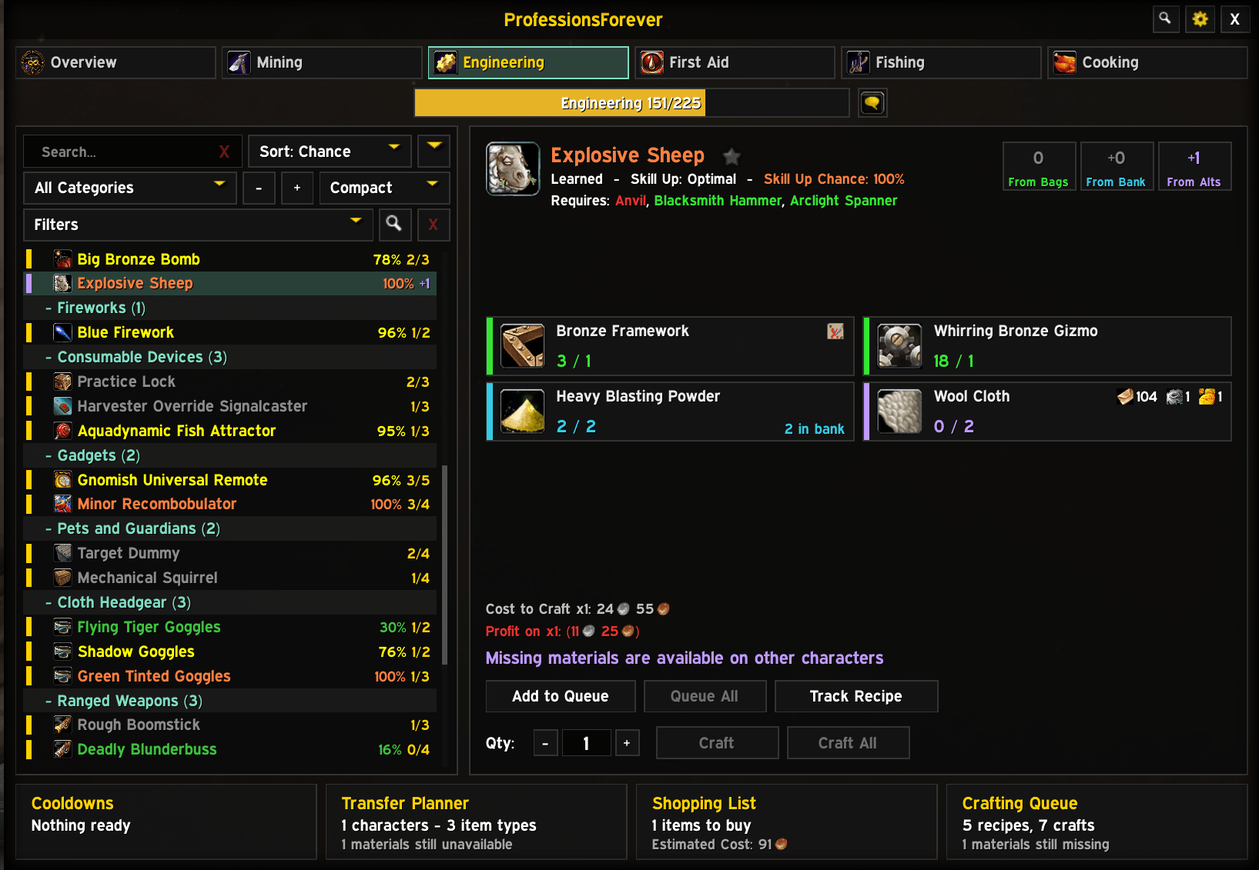
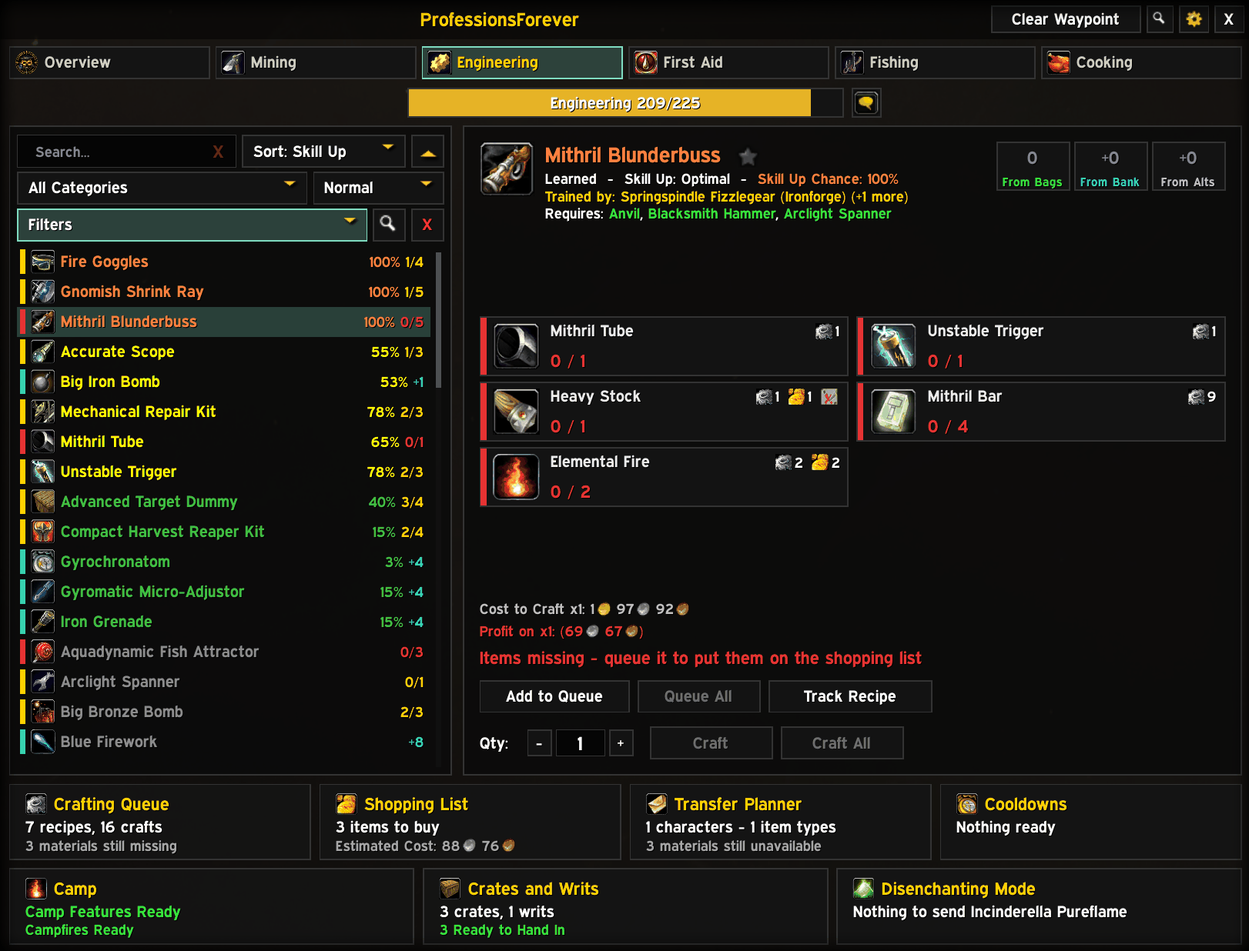
Update website for 0.10.4-0.10.5: changelog, Crates and Writs, Camp, new screenshots

diff --git a/index.html b/index.html
@@ -4,7 +4,7 @@
 	<meta charset="utf-8">
 	<meta name="viewport" content="width=device-width, initial-scale=1">
 	<title>ProfessionsForever: the professions window for WoW: Forever</title>
-	<meta name="description" content="The professions window WoW: Forever deserves. It knows what's in your bags, your bank, your mailbox and on every one of your alts: a crafting queue, a shopping list that fills itself, a Transfer Planner, Disenchanting Mode, cooldowns, camp, One-Click Fishing and waypoints to vendors, trainers and bankers.">
+	<meta name="description" content="The professions window WoW: Forever deserves. It knows what's in your bags, your bank, your mailbox and on every one of your alts: a crafting queue, a shopping list that fills itself, a Transfer Planner, Disenchanting Mode, cooldowns, camp, Crates and Writs, One-Click Fishing and waypoints to vendors, trainers and bankers.">
 	<meta name="theme-color" content="#0e0c0a">
 	<meta property="og:type" content="website">
 	<meta property="og:title" content="ProfessionsForever">
@@ -60,7 +60,7 @@
 			</a>
 		</div>
 		<div class="meta-line">
-			<span>Version 0.10.3</span>
+			<span>Version 0.10.5</span>
 			<span>Free and open source (GPL-3.0)</span>
 			<span>Built for WoW: Forever only</span>
 			<span>No required dependencies</span>
@@ -115,22 +115,25 @@
 <!-- What's new -->
 <section id="new" aria-labelledby="new-title">
 	<div class="wrap">
-		<div class="new-box no-shot">
+		<div class="new-box">
 			<div class="new-text">
 				<p class="eyebrow">Latest release</p>
-				<h2 id="new-title">New in 0.10.3 <span class="badge">CURRENT</span></h2>
-				<p class="new-intro">What's arrived in 0.10.2 and 0.10.3.</p>
+				<h2 id="new-title">New in 0.10.5 <span class="badge">CURRENT</span></h2>
+				<p class="new-intro">What's arrived in 0.10.4 and 0.10.5.</p>
 				<ul class="new-list">
-					<li><strong>Your alts' queues work together:</strong> hover an item to see how many your crafting queues need, how many you still have to buy, and which of your characters' queues are making it. Queue bolts on your tailor and your engineer's shopping list drops them and lists the cloth instead. Ore says what it smelts into, and <strong>Queue Needed</strong> queues exactly what's missing in one click.</li>
-					<li><strong>Queue your enchants:</strong> queue an enchant with a quantity to plan and shop for its materials. Each one you apply with the Enchant button comes off the queue.</li>
-					<li><strong>Set up camp:</strong> a new Camp window (footer, quick button or <code>/pf camp</code>) lists every camp feature you hold, can craft, have on an alt or haven't learned yet. Place them with one click, and the shared cooldowns sit right at the top.</li>
-					<li><strong>One-Click Fishing:</strong> bind one key: it puts on your fishing gear, best pole and lure, casts, and catches when the fish bites. Your normal gear goes back on when you mount or stop fishing, and bites are louder so you don't miss the splash.</li>
-					<li><strong>Send stuff by hand:</strong> the Transfer Planner's letter button opens Manual Transfers: send an alt an item or some gold, or ask one to send you something. Drop a stack from your bags straight on the window. At the mailbox, Mail attaches exactly the right amount, splitting stacks for you. You can ask for gear from Disenchanting Mode too.</li>
-					<li><strong>Keys for your quick buttons:</strong> bind a key to any window, to Disenchanting Mode or to each of your professions. Hover a button and press a key to bind it (<code>/pf bind</code>). New Overview and Settings buttons, plus rows or columns, growing from any corner.</li>
-					<li><strong>And more:</strong> "On Shopping List" on item tooltips, how many a craft makes on the recipe icon, a smarter auction verdict when disenchanting, crafted reagents priced at their crafting cost, options in categories with a live tooltip preview, and a pile of fixes.</li>
-				</ul>
+					<li><strong>Crates and Writs:</strong> a new window (footer, quick button or <code>/pf crates</code>) lists the Waylaid Crates and Craftsman's Writs your characters hold, what each pays, the cheapest way to fill it and the cost per Merchant's Favor or reputation. Queue, Shop, Fill and Waypoint right from the row, and see what a crate or writ bought at the auction house would cost once filled.</li>
+					<li><strong>Trainers and vendors built in:</strong> 465 trainer-taught recipes (up from 32), with the skill and cost the trainer asks, and 725 vendor recipes, Forever's own trainers, vendors and camp recipes included. No Questie needed, and it works in any game language.</li>
+					<li><strong>New and Changed in Forever:</strong> a glowing infinity marks recipes that are new in Forever (gold) or changed in Forever (blue), and the tooltip says what changed: reagents, result, trainer skill or cost.</li>
+					<li><strong>How old is that price?</strong> With Auctionator, "Auction Scan: 2h Ago" shows in the shopping list, Crates and Writs, Disenchanting Mode and the cost and profit tooltips, turning red once it's old. Auctionator's shopping list now stays in sync by itself.</li>
+					<li><strong>Chains use what your alts hold:</strong> queuing a recipe no longer queues smelting bars your bank alt already has. With alts counting toward planning, what they hold is used first.</li>
+					<li><strong>And more:</strong> the recipe tooltip can dock beside the window, your specialization on the Overview, Older and Newer buttons in What's New, smarter mail that stacks before it attaches, Stop Queue as its own button, and fixes for the queue, the Transfer Planner and Darkmoon Faire vendors.</li>
+</ul>
 				<a class="btn" href="changelog.html">Read the full changelog</a>
 			</div>
+			<figure class="shot new-shot">
+				<a href="assets/screenshots/whats-new.png" class="zoom"><img src="assets/screenshots/whats-new.png" alt="The What's New window in game, listing the highlights of version 0.10.5: Crates and Writs, who teaches and sells each recipe, New and Changed in Forever, and how old auction prices are." width="878" height="920" loading="lazy"></a>
+				<figcaption>What's New</figcaption>
+			</figure>
 		</div>
 	</div>
 </section>
@@ -145,7 +148,7 @@
 		<div class="tour">
 			<div class="tour-row" id="overview">
 				<figure class="shot">
-					<a href="assets/screenshots/overview.png" class="zoom"><img src="assets/screenshots/overview.png" alt="The Overview tab: cards for Mining, Engineering, Cooking, Fishing and First Aid with skill bars, and the footer showing cooldowns, transfers, shopping list and crafting queue." width="1623" height="1128" loading="lazy"></a>
+					<a href="assets/screenshots/overview.png" class="zoom"><img src="assets/screenshots/overview.png" alt="The Overview tab: cards for Mining, Engineering with the Gnomish Engineer specialization, Cooking, Fishing and First Aid with skill bars, and a two-row footer with the crafting queue, shopping list, Transfer Planner, cooldowns, Camp, Crates and Writs and Disenchanting Mode." width="1623" height="1238" loading="lazy"></a>
 					<figcaption>The Overview</figcaption>
 				</figure>
 				<div class="tour-text">
@@ -154,7 +157,7 @@
 					<p>At a glance. Your starting point.</p>
 					<ul>
 						<li>A card per profession, Cooking, First Aid and Fishing included, with its rank and skill bar.</li>
-						<li>Click to open it, right-click for a waypoint to the nearest trainer, or drag it onto an action bar.</li>
+						<li>Click to open it, right-click for a waypoint to the nearest trainer, or drag it onto an action bar. Blacksmiths, leatherworkers and engineers see their specialization.</li>
 						<li><strong>Your alts too:</strong> pick another character to browse their professions and queue crafts for them.</li>
 					</ul>
 				</div>
@@ -162,7 +165,7 @@
 
 			<div class="tour-row" id="recipes">
 				<figure class="shot">
-					<a href="assets/screenshots/recipe-missing.png" class="zoom"><img src="assets/screenshots/recipe-missing.png" alt="The Engineering recipe browser with Copper Modulator selected: recipes coloured by difficulty with skill up chances, reagent cards, and the hint to queue it to put missing items on the shopping list." width="1635" height="1131" loading="lazy"></a>
+					<a href="assets/screenshots/recipe-missing.png" class="zoom"><img src="assets/screenshots/recipe-missing.png" alt="The Mining recipe list with Smelt Gold selected: blue infinity marks on recipes changed in Forever and a gold one on the camp recipe Lodestone, the nearest trainer with how many more, and gold ore available on another character." width="1622" height="1236" loading="lazy"></a>
 					<figcaption>The crafting window</figcaption>
 				</figure>
 				<div class="tour-text">
@@ -173,14 +176,15 @@
 						<li>Search by recipe name or reagent; sort by name, skill up difficulty, skill up chance, craftable amount or profit.</li>
 						<li>Filter by learned, has materials, skill-up colour or favorites, with categories you can collapse.</li>
 						<li>Colour-coded by skill up difficulty, with the skill up chance on each recipe and a stripe for whether the materials are in your bags, bank, partly there or missing.</li>
-						<li>Unlearned recipes say where they come from and what skill they need, with every trainer of your faction that teaches it, nearest first. <kbd>Ctrl</kbd>-click to preview gear in the dressing room.</li>
+						<li>Unlearned recipes say where they come from and what skill they need, with every trainer of your faction that teaches it, nearest first, and the skill and cost they ask. <kbd>Ctrl</kbd>-click to preview gear in the dressing room.</li>
+						<li><strong>Made for Forever:</strong> a glowing infinity marks recipes new in Forever (gold) or changed in Forever (blue), and the tooltip says what changed.</li>
 					</ul>
 				</div>
 			</div>
 
 			<div class="tour-row" id="reagents">
 				<figure class="shot">
-					<a href="assets/screenshots/recipe-browser.png" class="zoom"><img src="assets/screenshots/recipe-browser.png" alt="Explosive Sheep in the Engineering recipe browser: reagent cards with have and need counts, what's in the bank and on alts, the From Bags, From Bank and From Alts tiles, required tools, and craft cost and profit." width="1635" height="1131" loading="lazy"></a>
+					<a href="assets/screenshots/recipe-browser.png" class="zoom"><img src="assets/screenshots/recipe-browser.png" alt="Mithril Blunderbuss in the Engineering recipe browser: reagent cards with have and need counts and icons for what is queued or held elsewhere, the trainer who teaches it, required tools, the skill up chance, and craft cost and profit." width="1622" height="1236" loading="lazy"></a>
 					<figcaption>What you have, and where</figcaption>
 				</figure>
 				<div class="tour-text">
@@ -188,18 +192,18 @@
 					<h3>Everything about a recipe's materials</h3>
 					<p>Without opening your bags.</p>
 					<ul>
-						<li><strong>Have / need</strong> for every reagent, plus what's in your bank and mailbox, and what your queue and shopping list already want.</li>
+						<li><strong>Have / need</strong> for every reagent, plus what's in your bank, your mailbox and on your alts, and what your queue and shopping list already want.</li>
 						<li>Craftable counts from your bags, with your bank, and with your alts.</li>
 						<li>Tools and stations you need, and whether you have them (a better Enchanting rod counts).</li>
-						<li><strong>With Auctionator:</strong> Cost to Craft and Profit, with each reagent priced at the cheapest of the vendor, the auction house or crafting it yourself (a Bolt of Silk Cloth against four Silk Cloth).</li>
+						<li><strong>With Auctionator:</strong> Cost to Craft and Profit, with each reagent priced at the cheapest of the vendor, the auction house or crafting it yourself (a Bolt of Silk Cloth against four Silk Cloth), and how long ago the auction house was scanned.</li>
 					</ul>
 				</div>
 			</div>
 
 			<div class="tour-row" id="queue">
 				<figure class="shot">
-					<a href="assets/screenshots/queue-shopping.png" class="zoom"><img src="assets/screenshots/queue-shopping.png" alt="The Crafting Queue with Smelt Copper, Handful of Copper Bolts and Copper Modulator, next to the Shopping List with Copper Ore and Linen Cloth, their need, own, alts and buy columns, and the estimated cost." width="1641" height="814" loading="lazy"></a>
-					<figcaption>Queue it, and the shopping list fills itself</figcaption>
+					<a href="assets/screenshots/queue-planner.png" class="zoom"><img src="assets/screenshots/queue-planner.png" alt="The Crafting Queue building a Mithril Blunderbuss from Smelt Bronze, Smelt Mithril, Mithril Tube and Unstable Trigger, next to the Transfer Planner listing what to withdraw from the bank, what to retrieve from a bank alt by mail, and what is still unavailable." width="1634" height="809" loading="lazy"></a>
+					<figcaption>Queue it, and the Transfer Planner knows what to fetch</figcaption>
 				</figure>
 				<div class="tour-text">
 					<p class="eyebrow">Crafting queue</p>
@@ -207,7 +211,7 @@
 					<p>Across professions, and craft it in one go.</p>
 					<ul>
 						<li>Queue any recipe with its own amount, then click <strong>Craft Queue</strong>. Between recipes, a click on the game world crafts the next one.</li>
-						<li><strong>Sub-crafts first:</strong> reagents you can make yourself are queued ahead of the recipe, sized to what you're short of. Short on materials? It holds back the early steps so the final crafts aren't starved.</li>
+						<li><strong>Sub-crafts first:</strong> reagents you can make yourself are queued ahead of the recipe, sized to what you're short of. Short on materials? It holds back the early steps so the final crafts aren't starved. What your alts already hold is used before anything is crafted.</li>
 						<li><strong>At a glance:</strong> rows are marked red when something is missing, blue when it's in the bank, and pink when it's waiting in the mailbox.</li>
 						<li><strong>Plan for your alts:</strong> edit another character's queue from the character picker. When another character is making a missing reagent, the queue names them.</li>
 						<li><strong>Enchants too:</strong> queue an enchant with a quantity to plan and shop for its materials; each one you apply comes off the queue.</li>
@@ -219,7 +223,7 @@
 						<li>Needed, owned, from alts and still to buy, a click to search the auction house, and plain-text export.</li>
 						<li><strong>Your alts' queues work together:</strong> when one character queues bolts, the shared list drops them and lists the cloth instead. <strong>Queue Needed</strong> queues exactly the crafts that make what's missing.</li>
 						<li><strong>On your tooltips:</strong> items say <strong>On Shopping List</strong>, <strong>Needed by Crafting Queues</strong> and <strong>Still to Buy</strong>, which of your characters' queues are making them, and what a raw material such as ore crafts into.</li>
-						<li><strong>With Auctionator:</strong> unit prices, costs, an estimated total, and a one-click Auctionator shopping list.</li>
+						<li><strong>With Auctionator:</strong> unit prices, costs, an estimated total and how old the prices are, with Auctionator's own shopping list kept in sync.</li>
 					</ul>
 				</div>
 			</div>
@@ -235,7 +239,7 @@
 					<p>The addon knows where everything is.</p>
 					<ul>
 						<li>Every character's bags, bank and mailbox, from Syndicator when it's installed, or recorded as you play.</li>
-						<li>The Transfer Planner lists what each character should send for your queues. At the mailbox, <strong>Mail</strong> attaches it and <strong>Collect from Mailbox</strong> takes what your queue needs.</li>
+						<li>The Transfer Planner lists what each character should send for your queues. At the mailbox, <strong>Mail</strong> puts short stacks together, attaches the fewest it can and fills in the subject, and <strong>Collect from Mailbox</strong> takes what your queue needs.</li>
 						<li><strong>It shows up when you need it:</strong> it opens at the mailbox or bank when there's something to do, docks beside them, and closes with them.</li>
 						<li><strong>Your call:</strong> choose per character and per material who supplies what, or let the planner decide.</li>
 						<li><strong>Manual Transfers:</strong> send an alt an item or some gold, or ask one to send you something, apart from any queue. Drop a stack on the window; at the mailbox, Mail attaches exactly the right amount, splitting stacks for you.</li>
@@ -264,6 +268,28 @@
 				</div>
 			</div>
 
+			<div class="tour-row" id="crates">
+				<figure class="shot">
+					<a href="assets/screenshots/crates-held.png" class="zoom"><img src="assets/screenshots/crates-held.png" alt="The Crates and Writs window, Held tab: Merchant's Favor and reputation at the top with the auction scan age, sealed crates ready to hand in with a Waypoint button, crates with their Favor and cost per Favor, a writ with its reputation and cost per reputation, and a writ not opened yet." width="1397" height="836" loading="lazy"></a>
+					<figcaption>Crates and Writs</figcaption>
+				</figure>
+				<div class="tour-text">
+					<p class="eyebrow">Crates and Writs</p>
+					<h3>Which crate is worth filling? <span class="new-tag">New</span></h3>
+					<p>Footer cell, quick button or <code>/pf crates</code>.</p>
+					<ul>
+						<li>Every Waylaid Crate and Craftsman's Writ your characters hold, with what each pays, the cheapest way to fill it and the cost per Merchant's Favor or per reputation.</li>
+						<li><strong>Queue, Shop, Fill and Waypoint</strong> on every row, and a box for how many to fill when you hold several of a crate.</li>
+						<li><strong>Buy Crates</strong> and <strong>Buy Writs</strong> show what one bought at the auction house would cost once filled; Shop adds it to the shopping list.</li>
+						<li>Crate and writ tooltips show the same pay and fill costs, including what your alts can send.</li>
+					</ul>
+					<figure class="shot shot-inline">
+						<a href="assets/screenshots/crate-tooltip.png" class="zoom"><img src="assets/screenshots/crate-tooltip.png" alt="A Waylaid Crate: Expert Curiosities tooltip showing that it pays 15 Favor, the cost of each bundle that fills it with what alts can send and what to buy, and the cheapest fill per Favor." width="618" height="488" loading="lazy"></a>
+						<figcaption>Pay and fill costs on every crate</figcaption>
+					</figure>
+				</div>
+			</div>
+
 			<div class="tour-row" id="cooldowns">
 				<figure class="shot shot-narrow">
 					<a href="assets/screenshots/cooldowns.png" class="zoom"><img src="assets/screenshots/cooldowns.png" alt="The Cooldowns window listing Jard's Peculiar Energy Source on one character with 8 hours 29 minutes left, and Mooncloth ready on another." width="710" height="819" loading="lazy"></a>
@@ -275,6 +301,22 @@
 					<ul>
 						<li>Transmutes, Mooncloth and every other cooldown for all your characters in one window, ready ones first.</li>
 						<li>A reminder at login of what's ready, and the count on the minimap button.</li>
+					</ul>
+				</div>
+			</div>
+
+			<div class="tour-row" id="camp">
+				<figure class="shot shot-narrow">
+					<a href="assets/screenshots/camp.png" class="zoom"><img src="assets/screenshots/camp.png" alt="The Camp window: camp feature and campfire cooldowns ready at the top, Essentials with Use buttons, camp features in bags with Place buttons and counts, one craftable, one on an alt, and 31 not learned." width="810" height="842" loading="lazy"></a>
+					<figcaption>The Camp window</figcaption>
+				</figure>
+				<div class="tour-text">
+					<p class="eyebrow">Camp</p>
+					<h3>Everything for Forever's camps</h3>
+					<p>Footer cell, quick button or <code>/pf camp</code>.</p>
+					<ul>
+						<li>The tent, chair, campfire kits and every profession's camp feature, grouped by what's in your bags (with Place), what you can craft, what's on an alt and what you haven't learned, with the skill each needs.</li>
+						<li>The camp feature and campfire cooldowns at the top, on the Place buttons, the footer cell and the quick button.</li>
 					</ul>
 				</div>
 			</div>
@@ -299,15 +341,7 @@
 
 		<div class="features features-tail">
 			<article class="feature">
-				<h3>Camp <span class="new-tag">New</span></h3>
-				<ul>
-					<li>A <strong>Camp</strong> window (footer cell, quick button or <code>/pf camp</code>) for Forever's camp features: the tent, chair, campfire kits and every profession's camp feature.</li>
-					<li>Grouped by what's in your bags (with Place), what you can craft, what's on an alt and what you haven't learned, with the skill each needs.</li>
-					<li>The camp feature and campfire cooldowns at the top, on the Place buttons, the footer cell and the quick button.</li>
-				</ul>
-			</article>
-			<article class="feature">
-				<h3>One-Click Fishing <span class="new-tag">New</span></h3>
+				<h3>One-Click Fishing</h3>
 				<ul>
 					<li>One key casts, and the same key catches when the fish bites. It only ever clicks your bobber.</li>
 					<li>Gets you ready first: your fishing gear set, best pole and best lure, then casts. Your normal gear goes back on when you mount, stop fishing or leave combat.</li>
@@ -319,12 +353,13 @@
 				<ul>
 					<li>Everything the addon adds to tooltips is under <strong>Options, Tooltips</strong>: each line on or off, the detail key, spacing, and the order of the blocks (drag them).</li>
 					<li>A live preview beside the options shows the result as you change it.</li>
+					<li>The recipe tooltip can dock left or right of the main window, or show only while the detail key is held.</li>
 				</ul>
 			</article>
 			<article class="feature">
 				<h3>Navigation</h3>
 				<ul>
-					<li>Waypoints through Polestar or TomTom to vendors, trainers and bankers, with trainer and vendor locations built in, no Questie needed.</li>
+					<li>Waypoints through Polestar or TomTom to vendors, trainers and bankers, with trainers for 465 recipes and vendors for 725 built in, Forever's own included. No Questie needed, in any game language.</li>
 					<li><strong>It learns:</strong> trainers, vendors and bankers you visit are remembered, so it gets better as you play.</li>
 				</ul>
 			</article>
@@ -346,7 +381,7 @@
 		<h2 id="int-title">Even better with the addons you already use</h2>
 		<p class="lead">Everything is optional. Features that need a missing addon simply don't show, and each addon has its own page under Options, Integrations.</p>
 		<div class="integrations">
-			<div class="integration"><h3>Auctionator</h3><p>Prices, crafting costs and profit, disenchant values and send-to-Auctionator.</p></div>
+			<div class="integration"><h3>Auctionator</h3><p>Prices and how old they are, crafting costs and profit, disenchant values, crate and writ costs, and a synced shopping list.</p></div>
 			<div class="integration"><h3>Syndicator</h3><p>Your bank and your other characters' bags, bank and mail.</p></div>
 			<div class="integration"><h3>Questie / QuestieDB</h3><p>More vendor, trainer and banker locations.</p></div>
 			<div class="integration"><h3>Polestar or TomTom</h3><p>Waypoints and the arrow. Polestar also prints multi-step routes.</p></div>
@@ -400,7 +435,7 @@
 						<thead><tr><th scope="col">Command</th><th scope="col">What it does</th></tr></thead>
 						<tbody>
 							<tr><td><code>/pf</code></td><td>Open or close the window</td></tr>
-							<tr><td><code>/pf queue</code>, <code>/pf shop</code>, <code>/pf transfer</code>, <code>/pf cd</code>, <code>/pf camp</code></td><td>Crafting queue, shopping list, Transfer Planner, cooldowns, Camp</td></tr>
+							<tr><td><code>/pf queue</code>, <code>/pf shop</code>, <code>/pf transfer</code>, <code>/pf cd</code>, <code>/pf camp</code>, <code>/pf crates</code></td><td>Crafting queue, shopping list, Transfer Planner, cooldowns, Camp, Crates and Writs</td></tr>
 							<tr><td><code>/pf track shop</code></td><td>Show or hide the shopping list on screen</td></tr>
 							<tr><td><code>/pf recipe</code>, <code>/pf reagent</code></td><td>Recipe Search by name or by reagent</td></tr>
 							<tr><td><code>/pf de</code></td><td>Disenchanting Mode</td></tr>
@@ -487,7 +522,7 @@
 			<a href="https://github.com/ProfessionsForever/Professions_Forever/blob/main/LICENSE">License (GPL-3.0)</a>
 		</div>
 		<p>ProfessionsForever is free software under the GNU General Public License, version 3. The source is on <a href="https://github.com/ProfessionsForever/Professions_Forever">GitHub</a>.</p>
-		<p>Trainer, vendor and banker locations and the disenchant odds come from the <a href="https://github.com/cmangos/classic-db">cmangos classic-db</a> project (GPL-3.0); recipe and item data from the wago.tools tables for WoW: Forever. World of Warcraft is a trademark of Blizzard Entertainment. This project is not affiliated with or endorsed by Blizzard Entertainment.</p>
+		<p>Trainer, vendor and banker locations and the disenchant odds come from the <a href="https://github.com/cmangos/classic-db">cmangos classic-db</a> project (GPL-3.0); the trainers added in Forever from <a href="https://github.com/advocaite/TrinityCore">ForeverTDB</a> (GPL-2.0 or later); recipe vendors, drops and quest rewards from <a href="https://github.com/foreverfraddons/forever-db">forever-db</a> (GPL-3.0) and <a href="https://github.com/Questie/QuestieDB">QuestieDB</a>; recipe and item data from the wago.tools tables for WoW: Forever. World of Warcraft is a trademark of Blizzard Entertainment. This project is not affiliated with or endorsed by Blizzard Entertainment.</p>
 	</div>
 </footer>
 

diff --git a/changelog.html b/changelog.html
@@ -41,6 +41,8 @@
 		<h1 style="font-family: var(--font-head); font-size: clamp(2rem, 5vw, 2.8rem); margin: 0 0 14px;">Changelog</h1>
 		<p class="lead">Every release and what changed in it. Download it from <a href="https://www.curseforge.com/wow/addons/professionsforever">CurseForge</a> or <a href="https://github.com/ProfessionsForever/Professions_Forever/releases">GitHub Releases</a>.</p>
 		<ul class="toc-versions">
+			<li><a href="#v0-10-5">0.10.5</a></li>
+			<li><a href="#v0-10-4">0.10.4</a></li>
 			<li><a href="#v0-10-3">0.10.3</a></li>
 			<li><a href="#v0-10-2">0.10.2</a></li>
 			<li><a href="#v0-10-1">0.10.1</a></li>
@@ -50,7 +52,59 @@
 			<li><a href="#v0-9-2">0.9.2</a></li>
 			<li><a href="#v0-9-1">0.9.1</a></li>
 		</ul>
-<h2 id="v0-10-3">0.10.3 <span class="badge">LATEST</span></h2>
+<h2 id="v0-10-5">0.10.5 <span class="badge">LATEST</span></h2>
+<h3>Added</h3>
+<ul>
+<li><strong>Crates and Writs:</strong> a new window (footer cell, quick button or <code>/pf crates</code>) lists the Waylaid Crates and Craftsman's Writs your characters hold, with what each pays, the cheapest way to fill it and the cost per Merchant's Favor or per reputation. Queue, Shop, Fill and Waypoint buttons act on a row, and a crate you hold several of has a box for how many to fill. Buy Crates and Buy Writs show what one bought at the auction house would cost once filled; Shop adds it to the shopping list and Ctrl-click searches the auction house. Crate and writ tooltips show the same pay and fill costs (Options, Tooltips, Crates and Writs).
+</li>
+<li><strong>Trainers:</strong> built in for 465 trainer-taught recipes, up from 32, on recipe tooltips, the recipe panel and its waypoint, with the skill and cost the trainer asks. New are Forever's own trainers and recipes (Zephras Isle, William Pickman, Camp Tent and the other camp recipes), the specialization trainers, Slagg, and the dungeon trainers Annora and Henry Stern, whose waypoint goes to the dungeon's entrance.
+</li>
+<li><strong>Vendors:</strong> built in for 725 recipes, Forever's own included, on the Sold By line and its waypoint, without Questie.
+</li>
+<li><strong>Recorded in Forever:</strong> 56 trainers, 201 vendors and 8 bankers recorded in game are built in, with the recipes those trainers teach.
+</li>
+<li><strong>New and Changed in Forever:</strong> a glowing infinity marks recipes new in Forever (gold) or changed in Forever (blue), in the recipe list and beside the name in the recipe panel. The recipe's tooltip says which, and what changed: reagents, result, trainer skill or trainer cost. Mark Recipes New or Changed in Forever is under Options, General, Main Window.
+</li>
+<li><strong>Auction price age,</strong> with Auctionator: "Auction Scan: 2h Ago" in the shopping list, Crates and Writs, Disenchanting Mode and the recipe panel's cost and profit tooltips, red once it is old. A single price not seen for a while is marked "(3 Days Old)". Show How Old Auction Prices Are and Prices Are Old After (24 hours by default) are under Options, Integrations, Auctionator.
+</li>
+<li><strong>Recipe tooltip beside the window:</strong> the recipe list's tooltip can dock left or right of the main window, level with the recipe or with the top of the list, with worn gear's comparison tooltips on the same side. It can also show only while the detail key is held. Options, Tooltips, Recipes.
+</li>
+<li><strong>Overview:</strong> a Blacksmithing, Leatherworking or Engineering card shows your specialization, with its icon and name.
+</li>
+<li><strong>Footer:</strong> Show Camp in the Footer and Show Crates and Writs in the Footer, under Options, General, Main Window, hide those cells.
+</li>
+<li><strong>What's New:</strong> Older and Newer buttons step through the notes of earlier versions.
+</li>
+<li><strong>About:</strong> credits for ForeverTDB, forever-db and QuestieDB.
+</li>
+</ul>
+<h3>Changed</h3>
+<ul>
+<li><strong>Crafting queue:</strong> clicking a recipe opens it in the main window, switching profession when needed. Stop Queue is its own button next to Craft Queue while the queue runs, and Stop Craft has a tooltip.
+</li>
+<li><strong>Mail:</strong> the Transfer Planner's Mail button puts short stacks together in your bags first and attaches the fewest stacks it can. It and Disenchanting Mode's Send Mail fill in an empty subject: Crafting Materials, Gear to Disenchant or Manual Transfer.
+</li>
+<li><strong>Auctionator shopping list:</strong> kept in sync with the shopping list automatically, so the Send to Auctionator button is gone. Keep Auctionator's Shopping List in Sync is under Options, Integrations, Auctionator.
+</li>
+<li><strong>Trainers and vendors in any game language:</strong> built-in and visited ones are matched to recipes by ID, not by English name. Earlier recordings are converted on login, and class and weapon trainers recorded by older versions are forgotten.
+</li>
+</ul>
+<h3>Fixed</h3>
+<ul>
+<li><strong>Crafting queue:</strong> changing a row's count or removing a row updates the crafts queued to make its reagents, such as Smelt Bronze for bronze recipes, leaving crafts you queued yourself alone. A recipe you queued yourself, such as smelting bars, is no longer held back because a later recipe uses what it makes, only when one needs the same materials, and the chat message names that recipe.
+</li>
+<li><strong>Transfer Planner:</strong> Withdraw from Bank and Collect from Mailbox also fetch what this character has to send. Collect from Mailbox offers everything the bags are short, also when the bank holds it, with the row marked (or). Has on the rows to send, and Character Owns in Manual Transfers, count the mailbox.
+</li>
+<li><strong>Vendors for both factions:</strong> Darkmoon Faire vendors are offered at both faire sites, Mulgore and Elwynn Forest, and named as Darkmoon Faire. Neutral vendors, bankers and trainers you recorded on one faction are offered to the other too.
+</li>
+</ul>
+<h2 id="v0-10-4">0.10.4</h2>
+<h3>Fixed</h3>
+<ul>
+<li>Queuing a recipe queued crafts of a reagent your other characters already hold, such as smelting bars your bank alt has. With alts counting toward planning, those are used first. Queue Needed and Crafts Into on item tooltips also leave out what is already held.
+</li>
+</ul>
+<h2 id="v0-10-3">0.10.3</h2>
 <h3>Added</h3>
 <ul>
 <li>A recipe's tooltip lists every trainer of your faction known to teach it, nearest first (up to 5, then "+N more"). The recipe panel names the nearest one, with how many others, and the waypoint goes to the nearest.
